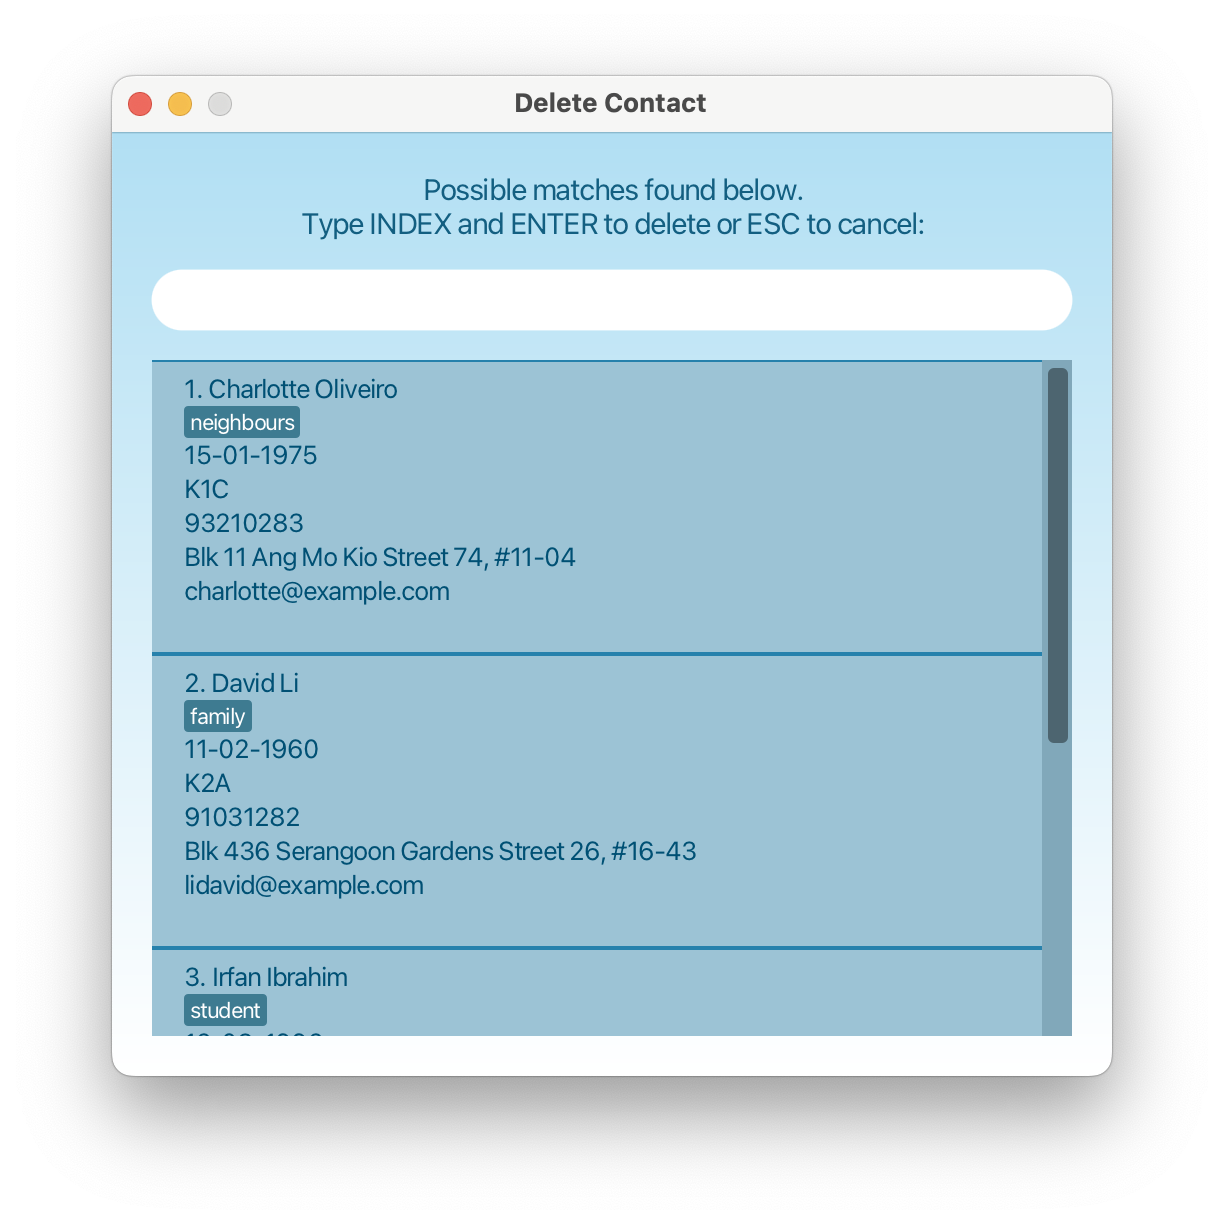
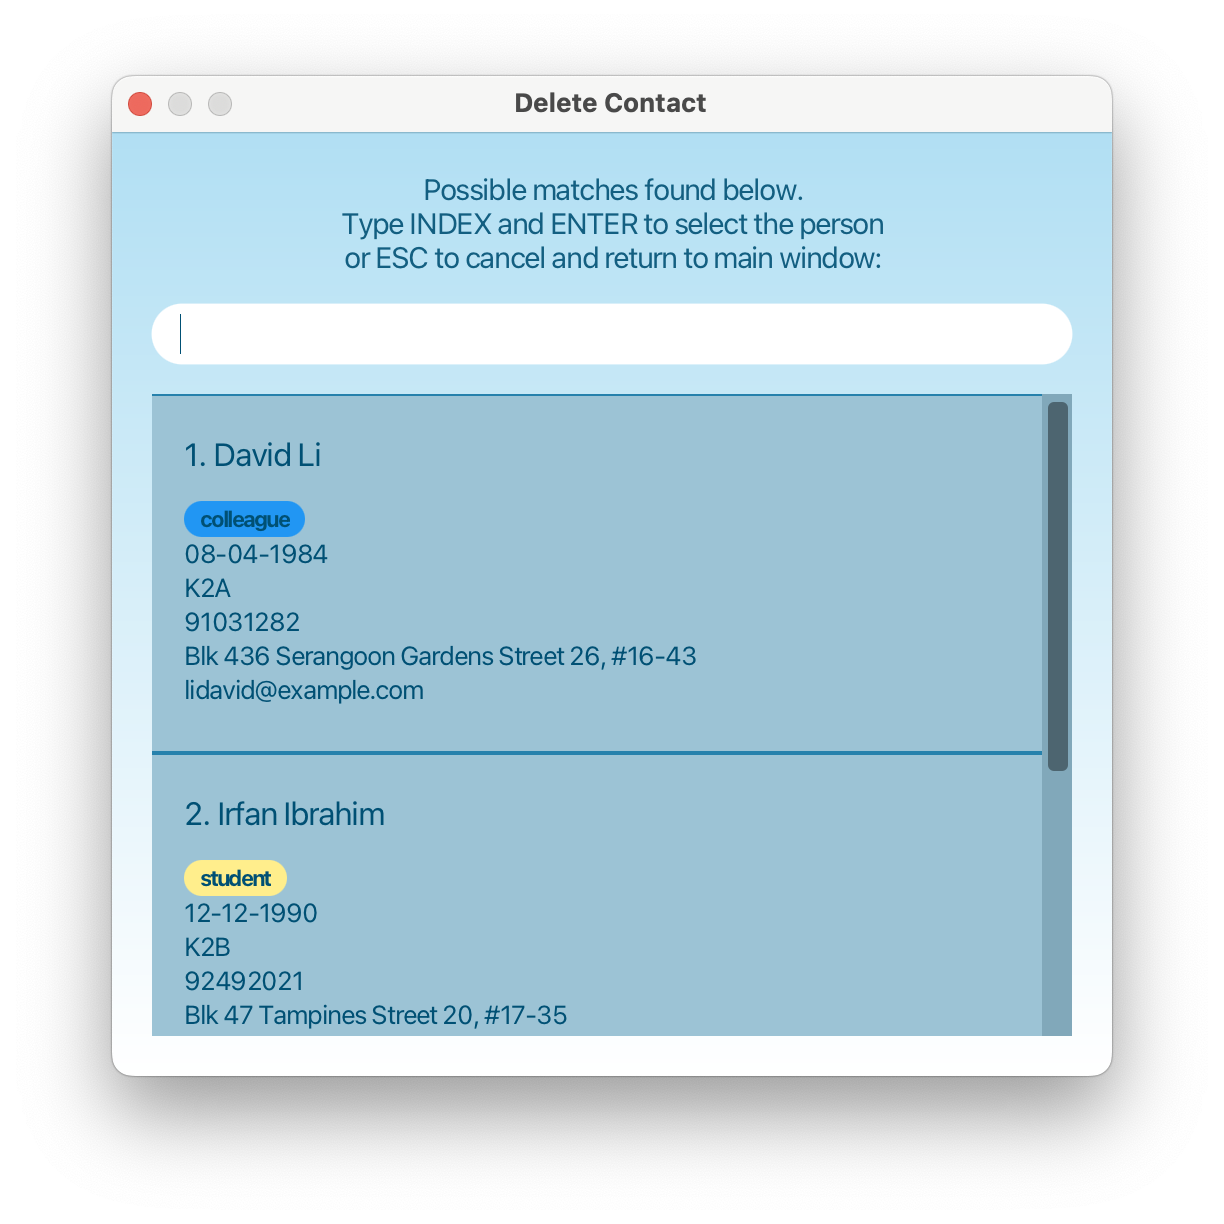
Update UG

Changed region(s): [[0.1242, 0.1552, 0.9003, 0.8382], [0.1242, 0.0621, 0.1552, 0.0931]]

diff --git a/docs/UserGuide.md b/docs/UserGuide.md
@@ -230,31 +230,28 @@ delete n/John Doe
 
 **1. Delete by INDEX**
 
-|                                      Outcome Type                                       | Scenario          | Message                                                    | GUI Action                                   |
-|:---------------------------------------------------------------------------------------:|-------------------|------------------------------------------------------------|----------------------------------------------|
-|                      <span style="color: green">**Success**</span>                      | Contact deleted   | `Deleted Person: <Person>`                                 | Contact list refreshes without deleted entry |
-|                       <span style="color: red">**Failure**</span>                       | Invalid index     | `The person index provided is invalid`                     | No changes                                   |
-|                       <span style="color: red">**Failure**</span>                       | No index provided | `Invalid command format!` _(with correct format guidance)_ | No changes                                   |
-|              <span style="color: orange">**Confirmation Required**</span>               | Double confirmation before deletion | `Are you sure you want to delete <Person> ?`                              | Pop-up window with the selected person       |
+|                                      Outcome Type                                       | Scenario          | Message                                                    | GUI Action                                                 |
+|:---------------------------------------------------------------------------------------:|-------------------|------------------------------------------------------------|------------------------------------------------------------|
+|                      <span style="color: green">**Success**</span>                      | Contact deleted   | `Deleted Person: <Person>`                                 | Contact list refreshes without deleted entry               |
+|                       <span style="color: red">**Failure**</span>                       | Invalid index     | `The person index provided is invalid`                     | No changes                                                 |
+|                       <span style="color: red">**Failure**</span>                       | No index provided | `Invalid command format!` _(with correct format guidance)_ | No changes                                                 |
+|              <span style="color: orange">**Confirmation Required**</span>               | Double confirmation before deletion | `Are you sure you want to delete this contact <Person> ?`  | Pop-up window with the selected person information appears |
 
 **2. Delete by NAME**
 
-|                         Outcome Type                         | Scenario                            | Message                                                                   | GUI Action                                   |
-|:------------------------------------------------------------:|-------------------------------------|---------------------------------------------------------------------------|----------------------------------------------|
-|        <span style="color: green">**Success**</span>         | Exact match found                   | `Deleted Person: <Person>`                                                | Contact list refreshes without deleted entry |
-|         <span style="color: red">**Failure**</span>          | No matches found                    | `No matches found. Please try again`                                      | Pop-up window appears                        |
-| <span style="color: orange">**Confirmation Required**</span> | Multiple matches found              | `Multiple matches found. Type index and ENTER to delete or ESC to cancel` | Pop-up window with list of matches appears   |
-| <span style="color: orange">**Confirmation Required**</span> | Double confirmation before deletion | `Are you sure you want to delete <Person> ?`                              | Pop-up window with the selected person       |
+|                         Outcome Type                         | Scenario                                                               | Message                                                                                              | GUI Action                                                 |
+|:------------------------------------------------------------:|------------------------------------------------------------------------|------------------------------------------------------------------------------------------------------|------------------------------------------------------------|
+|        <span style="color: green">**Success**</span>         | Contact deleted                                                        | `Deleted Person: <Person>`                                                                           | Contact list refreshes without deleted entry               |
+|         <span style="color: red">**Failure**</span>          | No matches found                                                       | `No matches found. Please try again`                                                                 | Pop-up window appears                                      |
+| <span style="color: orange">**Confirmation Required**</span> | Multiple matches found                                                 | `Multiple matches found. Type index and ENTER to delete or ESC to cancel and go back to main window` | Pop-up window with list of matches appears                 |
+| <span style="color: orange">**Confirmation Required**</span> | Exact one match found / selected - Double confirmation before deletion | `Are you sure you want to delete this contact <Person> ?`                                            | Pop-up window with the selected person information appears |
 
 <div style="display: flex; justify-content: space-around; align-items: flex-start; flex-wrap: wrap;">
-  <div style="text-align: center;">
-    <strong>Invalid index</strong><br>
-    <img src="images/invalid_index.png" width="300px">
-  </div>
   <div style="text-align: center;">
     <strong>No matches found</strong><br>
     <img src="images/no_matches.png" width="300px">
   </div>
+<div style="display: flex; justify-content: center; flex-wrap: wrap;">
   <div style="text-align: center;">
     <strong>Multiple matches found</strong><br>
     <img src="images/multiple_matches.png" width="400px">
@@ -263,6 +260,7 @@ delete n/John Doe
     <strong>Delete confirmation</strong><br>
     <img src="images/delete_confirmation.png" width="400px">
   </div>
+</div>
 </div>
 
 [//]: # (COMMAND BREAK)
@@ -790,18 +788,18 @@ Furthermore, certain edits can cause LittleLogBook to behave in unexpected ways 
 
 ## Command summary
 
-|   Action   | Command Format                                                              | Example Commands                                                                                           |
-|:----------:|-----------------------------------------------------------------------------|------------------------------------------------------------------------------------------------------------|
+|   Action   | Command Format                                                              | Example Commands                                                                                         |
+|:----------:|-----------------------------------------------------------------------------|----------------------------------------------------------------------------------------------------------|
 |  **Add**   | `add n/NAME p/PHONE e/EMAIL a/ADDRESS c/CLASS b/BIRTHDAY t/TAG [desc/NOTE]` | `add n/John Doe p/98765432 e/john.doe@gmail.com a/Blk 456, Den Road, #01-355 c/K1A b/15-03-2018 t/student` |
-| **Delete** | `delete n/NAME`<br>`delete INDEX`                                           | `delete n/John Doe`<br>`delete 1`                                                                          |
-|  **View**  | `view INDEX`                                                                | `view 1`                                                                                                   |
-|  **Note**  | `note INDEX desc/NOTE_TEXT`<br>`note INDEX`                                 | `note 1 desc/Allergic to peanuts`<br>`note 1`                                                              |
-| **Find-n** | `find-n NAME(s)`                                                            | `find-n John`                                                                                              |
-| **Find-p** | `find-p PHONE(s)`                                                           | `find-p 84871234`                                                                                          |
-| **Find-t** | `find-t TAG(s)`                                                             | `find-t student`                                                                                           |
-|  **Fav**   | `fav INDEX(es)`                                                             | `fav 1 2`                                                                                                  |
-| **Remind** | `remind`                                                                    | `remind`                                                                                                   |
-|  **List**  | `list`                                                                      | `list`                                                                                                     |
-| **Clear**  | `clear`                                                                     | `clear`                                                                                                    |
-|  **Help**  | `help`                                                                      | `help`                                                                                                     |
-|  **Exit**  | `exit`                                                                      | `exit`                                                                                                     |
+| **Delete** | `delete INDEX`<br>`delete n/NAME`                                           | `delete 1`<br>`delete n/John Doe`                                                                        |
+|  **View**  | `view INDEX`                                                                | `view 1`                                                                                                 |
+|  **Note**  | `note INDEX desc/NOTE_TEXT`<br>`note INDEX`                                 | `note 1 desc/Allergic to peanuts`<br>`note 1`                                                            |
+| **Find-n** | `find-n NAME(s)`                                                            | `find-n John`                                                                                            |
+| **Find-p** | `find-p PHONE(s)`                                                           | `find-p 84871234`                                                                                        |
+| **Find-t** | `find-t TAG(s)`                                                             | `find-t student`                                                                                         |
+|  **Fav**   | `fav INDEX(es)`                                                             | `fav 1 2`                                                                                                |
+| **Remind** | `remind`                                                                    | `remind`                                                                                                 |
+|  **List**  | `list`                                                                      | `list`                                                                                                   |
+| **Clear**  | `clear`                                                                     | `clear`                                                                                                  |
+|  **Help**  | `help`                                                                      | `help`                                                                                                   |
+|  **Exit**  | `exit`                                                                      | `exit`                                                                                                   |
